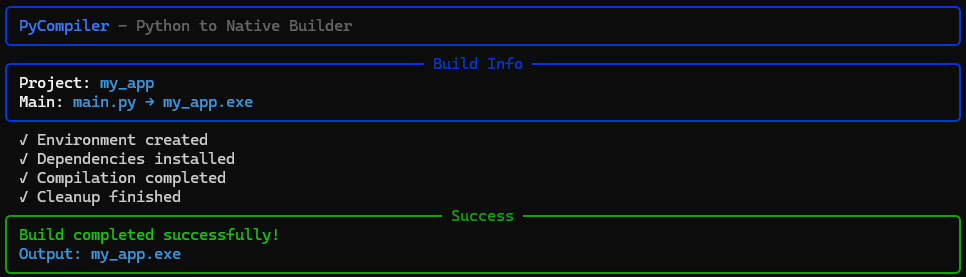
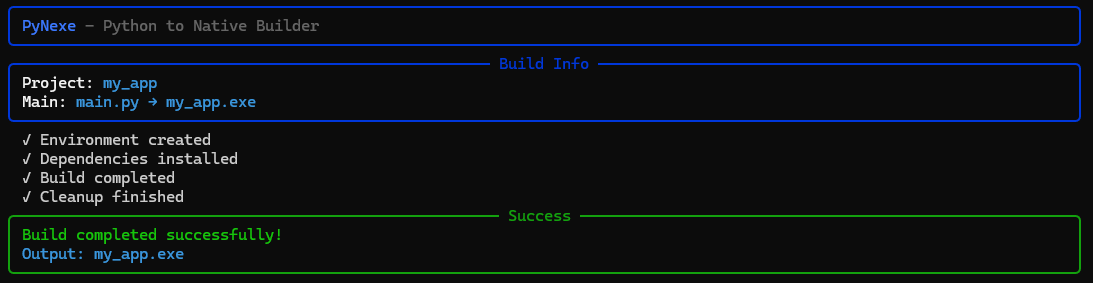
Updated README.md

Changed region(s): [[0.0, 0.2022, 1.0, 1.0], [0.0, 0.0, 1.0, 0.1733]]

diff --git a/README.md b/README.md
@@ -4,13 +4,13 @@
 
 ## What it does
 
-Builds standalone Windows .exe files from Python scripts using native compilation.
+Generates standalone Windows .exe files from Python scripts using Nuitka bundling.
 
 **Key Innovation:** Simplifies Nuitka building with a clean YAML configuration and rich CLI interface.
 
 ## Why PyNexe?
 
-While Nuitka provides excellent native compilation, it can be complex to configure. PyNexe wraps Nuitka with:
+While Nuitka provides excellent executable generation, it can be complex to configure. PyNexe wraps Nuitka with:
 
 - **Simple YAML configuration** instead of complex command lines
 - **Rich CLI interface** with progress tracking
@@ -39,7 +39,7 @@ project_libs:
 
 2. **Build:**
 ```bash
-python builder.py
+python pynexe.py run
 ```
 
 3. **Done:** `my_app.exe` ready to distribute
@@ -129,9 +129,14 @@ windows_metadata:           # Exe properties
 ## Usage
 
 ```bash
-python builder.py                    # Build
-python builder.py --info            # Check config
-python builder.py --config my.yaml  # Custom config
+# Quick Start
+python pynexe.py run              # Build with config.yaml
+python pynexe.py info             # Check project settings
+python pynexe.py help             # Show help
+
+# Advanced Usage
+python pynexe.py run --config prod.yaml    # Custom config
+python pynexe.py info --config dev.yaml    # Check dev config
 ```
 
 ![CLI Screenshot](docs/cli-screenshot.png)
@@ -171,7 +176,7 @@ python builder.py --config my.yaml  # Custom config
 
 ```
 pynexe/
-├── builder.py            # Build tool
+├── pynexe.py             # Build tool
 ├── src/
 │   ├── cli.py           # Command interface
 │   └── engine.py        # Build engine
